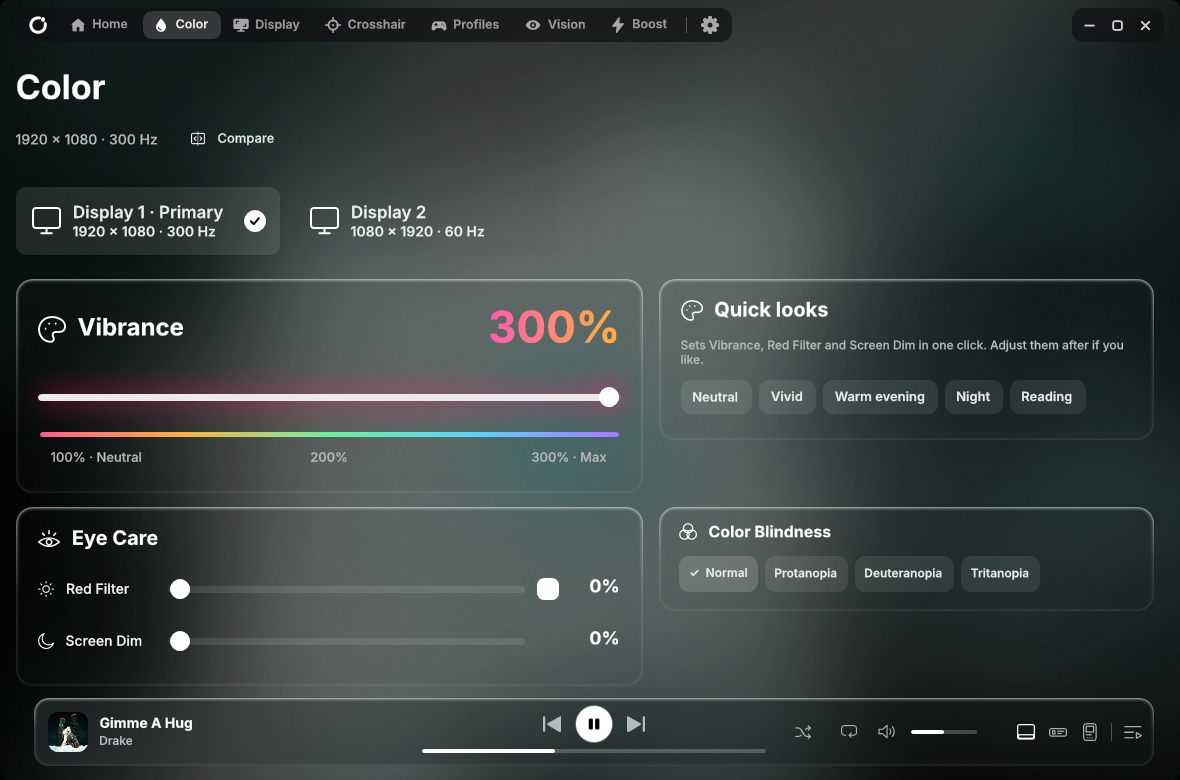
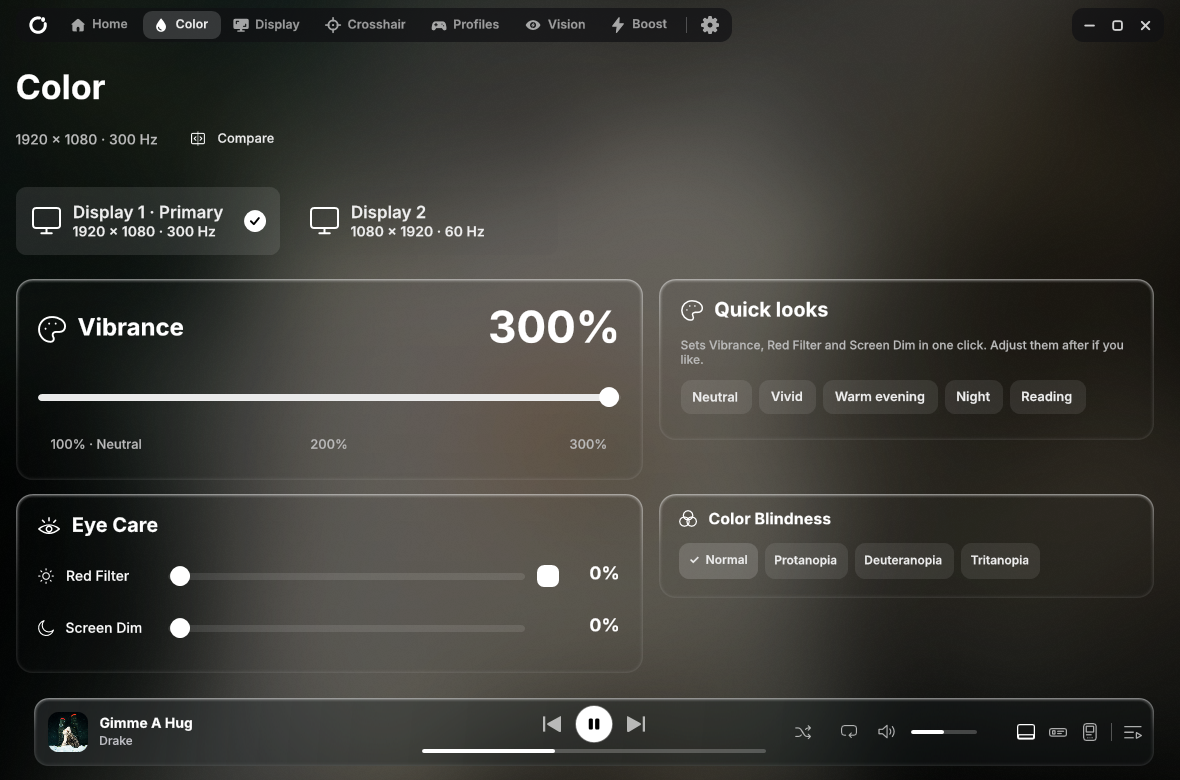
Retake the Color picture without the vibrance glow

Changed region(s): [[0.0, 0.4, 0.9763, 0.7692], [0.0305, 0.8, 0.4576, 0.8308], [0.4881, 0.8, 0.5186, 0.8308]]

diff --git a/tests/ReadmeShots.cs b/tests/ReadmeShots.cs
@@ -125,7 +125,7 @@ class ReadmeShots
   }  // Made-up numbers for Your PC, so the rings show percentages and temperatures in the pictures (nothing is measured here).
   shell.ShowSystemStats(new SystemSnapshot{Cpu=37,CpuTemp=58,RamUsedGb=19.8,RamTotalGb=31.9,Gpu=64,GpuTemp=66,VramUsedGb=6.1,VramTotalGb=12,GpuName="Fixture"});
   // Each cover on Home: the colors follow the cover.
-  bool quick=Environment.GetEnvironmentVariable("LUCENT_ONLY")=="quick";
+  bool quick=Environment.GetEnvironmentVariable("LUCENT_ONLY")=="quick"||Environment.GetEnvironmentVariable("LUCENT_ONLY")=="color";
   foreach(var file in (quick?covers.Take(0):covers))
   {
    play(file);await Task.Delay(2600);
@@ -148,6 +148,7 @@ class ReadmeShots
   Call(shell,"ShowPage","Video");await Task.Delay(1200);
   ((System.Windows.Controls.Slider)((IDictionary)F(shell,"sliders").GetValue(shell))["Vibrance"]).Value=300;await Task.Delay(1200);
   Shot(shell,Path.Combine(output,"color-300.png"));
+  if(Environment.GetEnvironmentVariable("LUCENT_ONLY")=="color"){shell.Close();stage.Close();Console.WriteLine("PASS: color picture written to "+output);return;}
   ((System.Windows.Controls.Slider)((IDictionary)F(shell,"sliders").GetValue(shell))["Vibrance"]).Value=100;
   Call(shell,"ShowPage","Game Boost");await Task.Delay(1400);Shot(shell,Path.Combine(output,"boost.png"));
   Call(shell,"ShowPage","Home");await Task.Delay(600);
